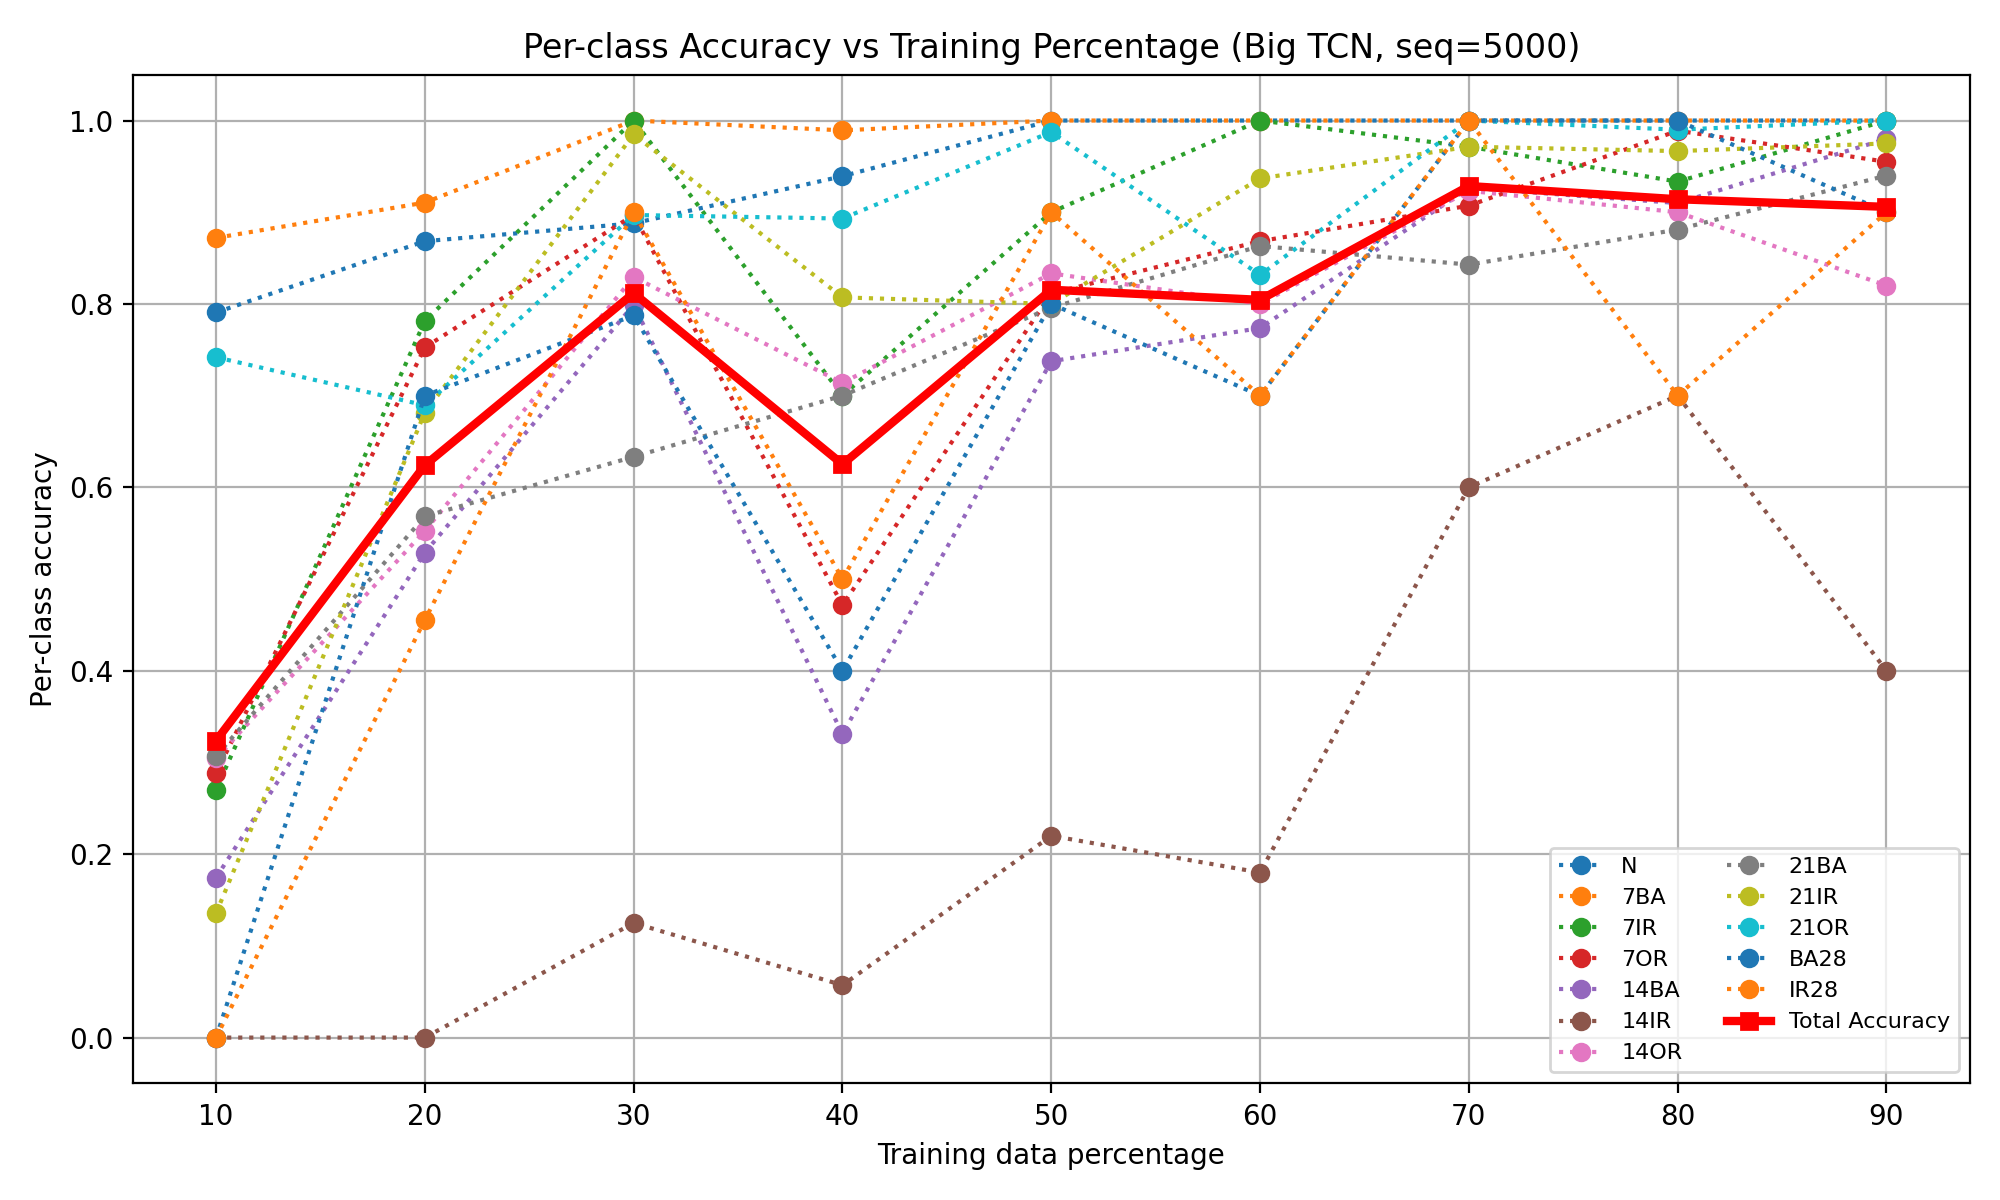
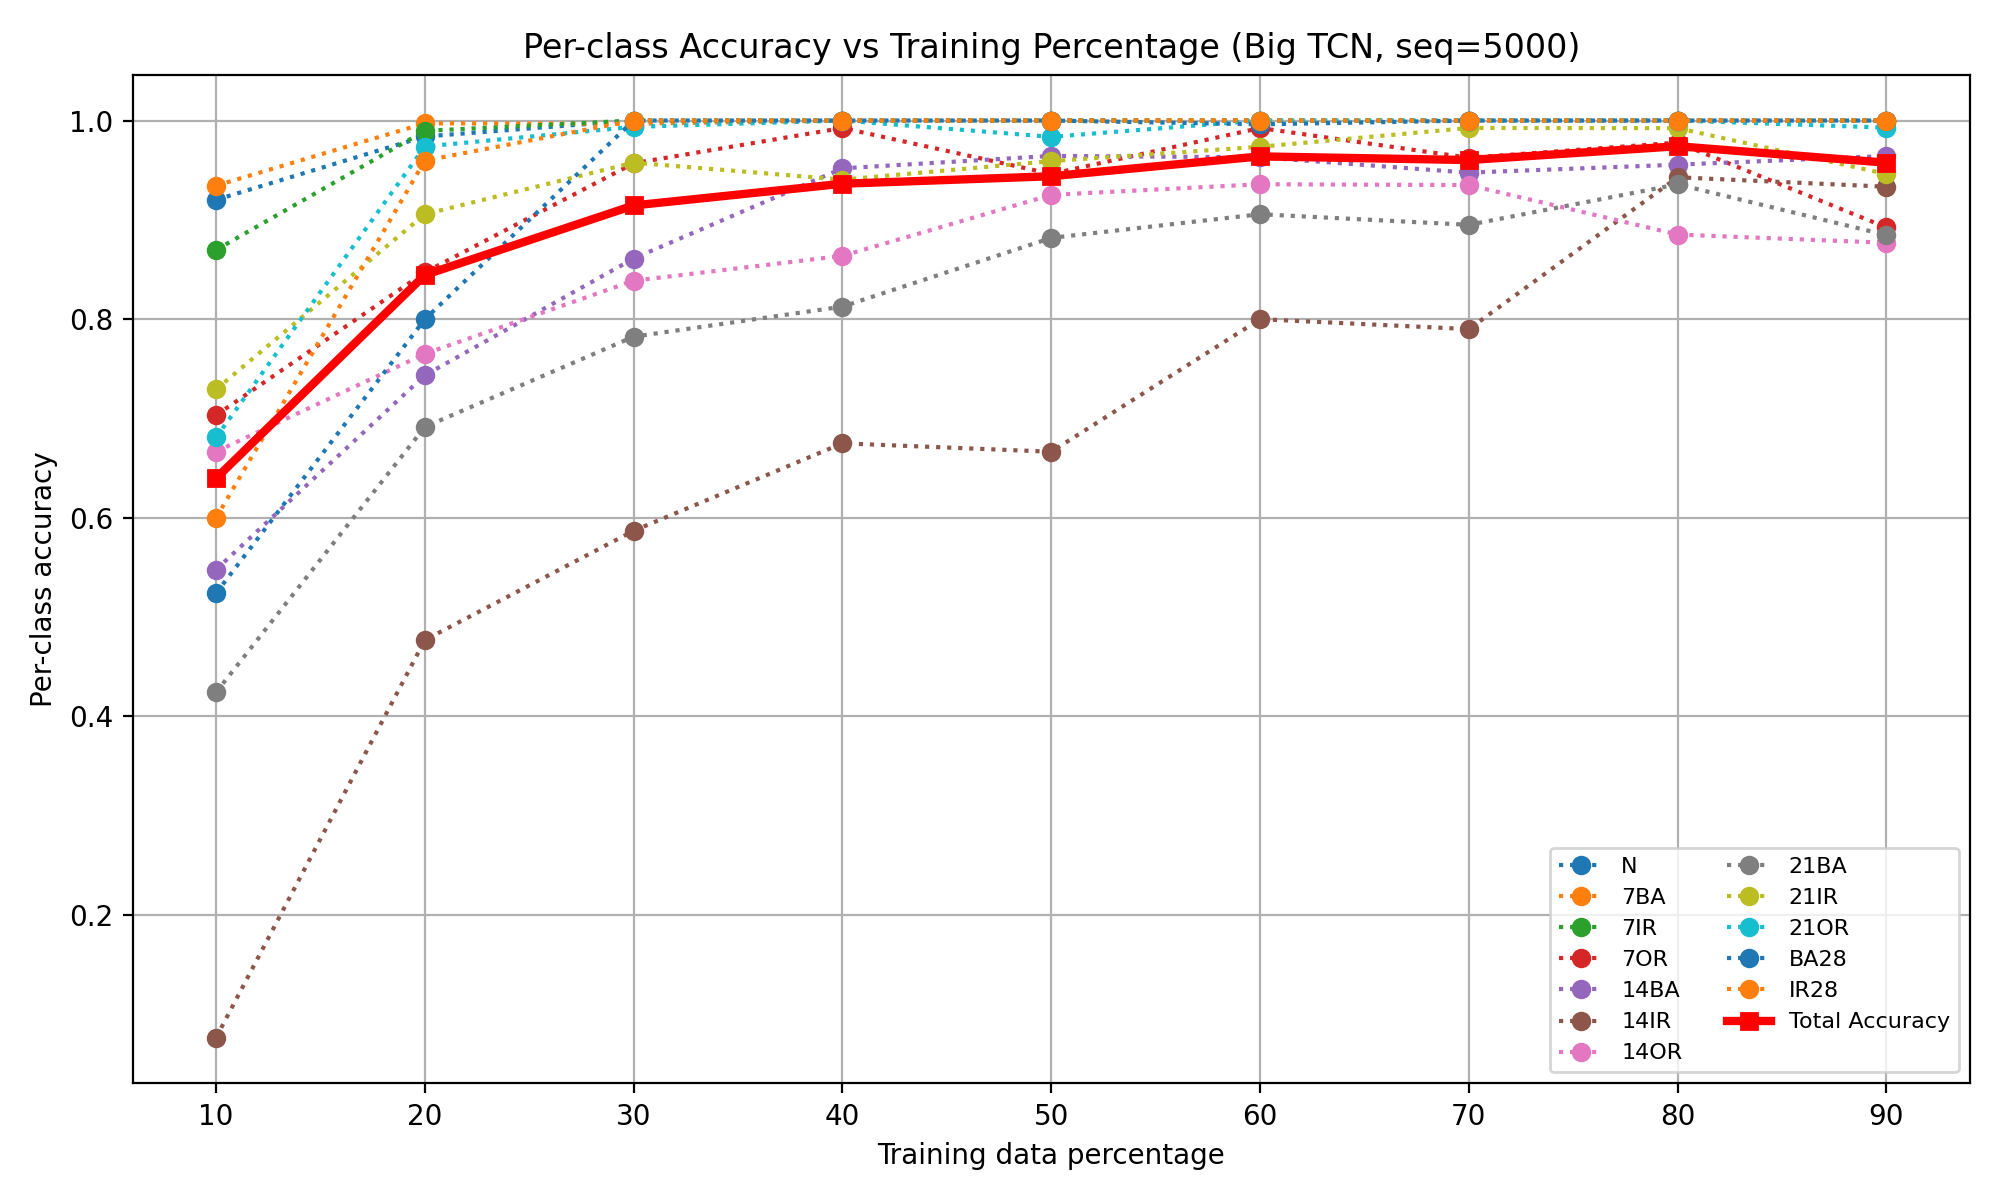
Update sequence length and stride in model_v1.py; add new script for TCN with generated data and include training result images

diff --git a/classifier/model_v1_with_generated_data.py b/classifier/model_v1_with_generated_data.py
@@ -1,0 +1,242 @@
+# tcn_real_vs_generated_mix_1824.py
+# Usage: python tcn_real_vs_generated_mix_1824.py
+
+import os
+import random
+from pathlib import Path
+from collections import defaultdict
+
+import numpy as np
+import pandas as pd
+import matplotlib.pyplot as plt
+
+import torch
+import torch.nn as nn
+import torch.nn.functional as F
+from torch.utils.data import Dataset, DataLoader, ConcatDataset, Subset
+
+from sklearn.model_selection import StratifiedShuffleSplit
+
+# =========================================================
+# CONFIG
+# =========================================================
+REAL_DIR = "/home/atharv/Desktop/projects/timeseries-fft-matching/CWRU_data"
+GEN_DIR  = "/home/atharv/Desktop/projects/timeseries-fft-matching/WGAN-GP/self attention"
+
+SEQ_LEN = 1824
+STRIDE  = 1824
+
+BATCH_SIZE = 64
+EPOCHS = 30
+LR = 1e-3
+
+TRAIN_FRACS = [i / 10 for i in range(1, 10)]      # 10–90%
+GEN_FRACS   = [i / 10 for i in range(0, 11)]     # 0–100%
+REPEATS = 10
+
+SEED = 42
+DEVICE = torch.device("cuda" if torch.cuda.is_available() else "cpu")
+
+random.seed(SEED)
+np.random.seed(SEED)
+torch.manual_seed(SEED)
+
+# =========================================================
+# LABELS (fault-only classification)
+# =========================================================
+FAULT_LABELS = {
+    "N": 0,
+    "IR": 1,
+    "BA": 2,
+    "OR": 3
+}
+CLASS_NAMES = ["Normal", "IR", "BA", "OR"]
+NUM_CLASSES = 4
+
+def fault_from_key(key):
+    if key == "N":
+        return 0
+    if "IR" in key:
+        return 1
+    if "BA" in key:
+        return 2
+    if "OR" in key:
+        return 3
+    raise ValueError(key)
+
+# =========================================================
+# DATASETS
+# =========================================================
+class RealCSVDataset(Dataset):
+    """Long real signal → non-overlapping windows"""
+    def __init__(self, file_path, key):
+        x = pd.read_csv(file_path, header=None).values.squeeze().astype(np.float32)
+        if x.ndim > 1:
+            x = x[:, 0]
+        x = (x - x.mean()) / (x.std() + 1e-8)
+
+        self.data = torch.tensor(x)
+        self.label = fault_from_key(key)
+        self.n = (len(self.data) - SEQ_LEN) // STRIDE + 1
+
+    def __len__(self):
+        return max(0, self.n)
+
+    def __getitem__(self, idx):
+        s = idx * STRIDE
+        return self.data[s:s+SEQ_LEN].unsqueeze(0), self.label
+
+
+class GeneratedCSVDataset(Dataset):
+    """1824×Ncols → each column = one sample"""
+    def __init__(self, file_path, key):
+        arr = pd.read_csv(file_path, header=None).values.astype(np.float32)
+        assert arr.shape[0] == SEQ_LEN, "Generated data must be 1824 rows"
+
+        arr = (arr - arr.mean(axis=0)) / (arr.std(axis=0) + 1e-8)
+        self.samples = torch.tensor(arr.T)   # (Ncols, 1824)
+        self.label = fault_from_key(key)
+
+    def __len__(self):
+        return self.samples.shape[0]
+
+    def __getitem__(self, idx):
+        return self.samples[idx].unsqueeze(0), self.label
+
+# =========================================================
+# MODEL — Big TCN
+# =========================================================
+class TemporalBlock(nn.Module):
+    def __init__(self, in_ch, out_ch, k, d):
+        super().__init__()
+        pad = (k - 1) * d
+        self.c1 = nn.Conv1d(in_ch, out_ch, k, padding=pad, dilation=d)
+        self.c2 = nn.Conv1d(out_ch, out_ch, k, padding=pad, dilation=d)
+        self.down = nn.Conv1d(in_ch, out_ch, 1) if in_ch != out_ch else None
+
+    def forward(self, x):
+        y = F.relu(self.c1(x))
+        y = F.relu(self.c2(y))
+        y = y[:, :, :x.size(2)]
+        r = x if self.down is None else self.down(x)
+        return F.relu(y + r)
+
+class BigTCN(nn.Module):
+    def __init__(self):
+        super().__init__()
+        chans = [64, 64, 128, 128, 256]
+        layers, c = [], 1
+        for i, ch in enumerate(chans):
+            layers.append(TemporalBlock(c, ch, 5, 2**i))
+            c = ch
+        self.tcn = nn.Sequential(*layers)
+        self.pool = nn.AdaptiveAvgPool1d(1)
+        self.fc = nn.Linear(chans[-1], NUM_CLASSES)
+
+    def forward(self, x):
+        return self.fc(self.pool(self.tcn(x)).squeeze(-1))
+
+# =========================================================
+# TRAIN / EVAL
+# =========================================================
+def train_epoch(model, loader, opt):
+    model.train()
+    for x, y in loader:
+        x, y = x.to(DEVICE), y.to(DEVICE)
+        opt.zero_grad()
+        F.cross_entropy(model(x), y).backward()
+        opt.step()
+
+def eval_model(model, loader):
+    model.eval()
+    correct = np.zeros(NUM_CLASSES)
+    total   = np.zeros(NUM_CLASSES)
+    with torch.no_grad():
+        for x, y in loader:
+            p = model(x.to(DEVICE)).argmax(1).cpu().numpy()
+            y = y.numpy()
+            for pi, yi in zip(p, y):
+                total[yi] += 1
+                correct[yi] += (pi == yi)
+    return correct / np.maximum(total, 1), correct.sum() / total.sum()
+
+# =========================================================
+# DATA LOADING
+# =========================================================
+def load_real():
+    ds = []
+    for f in Path(REAL_DIR).glob("*.csv"):
+        ds.append(RealCSVDataset(f, f.stem))
+    return ConcatDataset(ds)
+
+def load_generated():
+    ds = []
+    for f in Path(GEN_DIR).glob("*.csv"):
+        ds.append(GeneratedCSVDataset(f, f.stem))
+    return ConcatDataset(ds)
+
+# =========================================================
+# MAIN EXPERIMENT
+# =========================================================
+def main():
+    real_ds = load_real()
+    gen_ds  = load_generated()
+
+    y_real = np.array([real_ds[i][1] for i in range(len(real_ds))])
+    y_gen  = np.array([gen_ds[i][1]  for i in range(len(gen_ds))])
+
+    for tf in TRAIN_FRACS:
+        results = defaultdict(list)
+
+        for gf in GEN_FRACS:
+            for r in range(REPEATS):
+                sss = StratifiedShuffleSplit(1, train_size=tf, random_state=SEED+r)
+                train_idx, test_idx = next(sss.split(np.zeros(len(y_real)), y_real))
+
+                test_loader = DataLoader(Subset(real_ds, test_idx), BATCH_SIZE)
+
+                n_train = len(train_idx)
+                n_gen   = int(gf * n_train)
+                n_real  = n_train - n_gen
+
+                real_sel = np.random.choice(train_idx, n_real, replace=False) if n_real > 0 else []
+                gen_sel  = np.random.choice(len(gen_ds), n_gen, replace=False) if n_gen > 0 else []
+
+                train_parts = []
+                if n_real > 0: train_parts.append(Subset(real_ds, real_sel))
+                if n_gen  > 0: train_parts.append(Subset(gen_ds, gen_sel))
+
+                train_loader = DataLoader(ConcatDataset(train_parts), BATCH_SIZE, shuffle=True)
+
+                model = BigTCN().to(DEVICE)
+                opt = torch.optim.Adam(model.parameters(), lr=LR)
+
+                for _ in range(EPOCHS):
+                    train_epoch(model, train_loader, opt)
+
+                pc, tot = eval_model(model, test_loader)
+                results[gf].append((pc, tot))
+
+        # plot
+        x = [int(g*100) for g in GEN_FRACS]
+        plt.figure(figsize=(10,6))
+        for c in range(NUM_CLASSES):
+            plt.plot(
+                x,
+                [np.mean([r[0][c] for r in results[g]]) for g in GEN_FRACS],
+                label=CLASS_NAMES[c]
+            )
+        plt.plot(x, [np.mean([r[1] for r in results[g]]) for g in GEN_FRACS],
+                 color="black", linewidth=3, label="Total")
+        plt.title(f"Train fraction {int(tf*100)}%")
+        plt.xlabel("Generated data % in training")
+        plt.ylabel("Accuracy (real test)")
+        plt.grid()
+        plt.legend()
+        plt.savefig(f"train{int(tf*100)}_gen_mix.png", dpi=200)
+        plt.close()
+
+    print("DONE.")
+
+if __name__ == "__main__":
+    main()

diff --git a/classifier/model_v1.py b/classifier/model_v1.py
@@ -16,8 +16,8 @@ from sklearn.model_selection import StratifiedShuffleSplit
 # =========================================================
 DATA_DIR = "/home/atharv/Desktop/projects/timeseries-fft-matching/CWRU_data"
 
-SEQ_LEN = 5000          # >= 5000 values
-STRIDE = 5000           # NO overlap
+SEQ_LEN = 1824         # >= 5000 values
+STRIDE = 1824          # NO overlap
 BATCH_SIZE = 32         # keep smaller (sequence is large)
 EPOCHS = 30
 LR = 1e-3